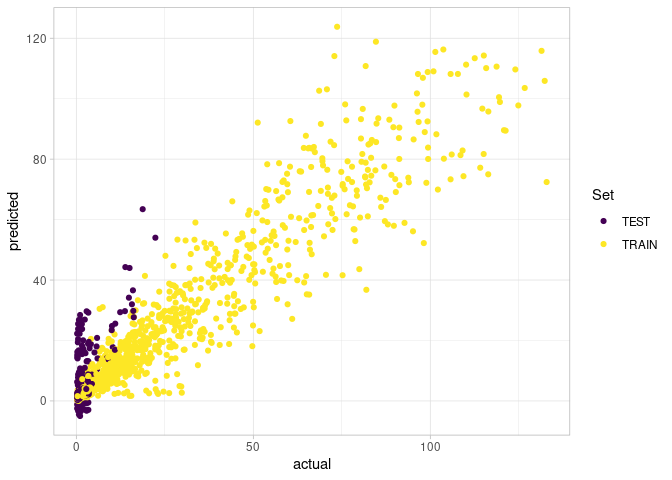
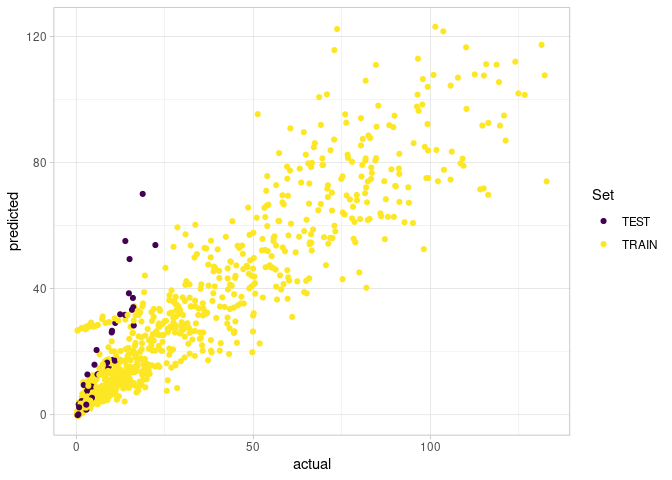
re-knit readme

diff --git a/README.md b/README.md
@@ -139,7 +139,7 @@ bounds_voronoi
 #> →  Surface col.  : area
 #> →  Discretized   : 
 #>    ٭ Points — [40 features, 20 variables]
-#>    ٭ Patches — [35 features, 4 variables]
+#>    ٭ Patches — [38 features, 4 variables]
 ```
 
 The other available method is `triangulate_delaunay` for delaunay
@@ -171,30 +171,30 @@ spm_plot(bounds_delaunay)
 
 ``` r
 spm_patches(bounds_voronoi)
-#> Simple feature collection with 35 features and 3 fields
+#> Simple feature collection with 38 features and 3 fields
 #> Geometry type: GEOMETRY
 #> Dimension:     XY
-#> Bounding box:  xmin: -64.18658 ymin: 46.00004 xmax: -46.6269 ymax: 60.84471
+#> Bounding box:  xmin: -64.5 ymin: 46.00004 xmax: -46.6269 ymax: 61
 #> Geodetic CRS:  WGS 84
-#> # A tibble: 35 x 4
+#> # A tibble: 38 x 4
 #>    sfa   patch_id                                              geometry     area
-#>  * <chr> <fct>                                           <GEOMETRY [°]>   [km^2]
-#>  1 4     P1       POLYGON ((-61.64897 58.21121, -61.35715 58.43733, -6… 17683.6…
-#>  2 4     P2       POLYGON ((-62.41225 60.84022, -61.35715 58.43733, -6… 11712.2…
-#>  3 4     P3       MULTIPOLYGON (((-60.72194 57.76154, -60.76641 57.922…  2367.4…
-#>  4 4     P4       POLYGON ((-60.26783 58.71877, -60.74766 58.86986, -6…  2471.2…
-#>  5 4     P5       POLYGON ((-59.91358 58.83089, -60.06338 58.74244, -6…  6723.9…
-#>  6 4     P6       POLYGON ((-60.11889 57.69684, -60.08143 57.70026, -6…  4924.0…
-#>  7 4     P7       MULTIPOLYGON (((-60.78516 60.03038, -60.06338 58.742…  1693.0…
-#>  8 5     P8       POLYGON ((-59.46605 55.79975, -58.92503 57.15717, -5… 15614.8…
-#>  9 5     P9       POLYGON ((-55.51969 53.75097, -55.79222 54.17142, -5…  6519.4…
-#> 10 5     P10      POLYGON ((-57.06788 54.76817, -56.79468 55.60955, -5… 23662.2…
-#> # … with 25 more rows
+#>  * <chr> <fct>                                            <POLYGON [°]>   [km^2]
+#>  1 4     P1       ((-64.42169 60.27125, -64.42 60.27206, -64.41666 60.… 20367.3…
+#>  2 4     P2       ((-59.95566 58.64882, -60.25261 57.73692, -59.67678 …  1718.5…
+#>  3 4     P3       ((-61.89804 57.6918, -61.34602 58.43681, -61.36857 5…  3882.6…
+#>  4 4     P4       ((-60.50931 57.66667, -60.87958 58.41518, -61.34602 …  4684.4…
+#>  5 4     P5       ((-61.34602 58.43681, -60.87958 58.41518, -60.68359 …  2687.3…
+#>  6 4     P6       ((-63 60.62184, -61.66155 59.11637, -60.6936 58.9027… 14504.2…
+#>  7 4     P7       ((-60.26194 59.52858, -60.73068 59.34113, -60.6936 5…  2449.3…
+#>  8 4     P8       ((-59.91649 58.83888, -60.68359 58.8793, -60.87958 5…  6258.8…
+#>  9 4     P9       ((-61.96379 61, -60.73068 59.34113, -60.26194 59.528…  5308.1…
+#> 10 5     P10      ((-59.55703 55.21506, -59.53354 57.66667, -59.56667 … 27939.6…
+#> # … with 28 more rows
 spm_points(bounds_voronoi)
 #> Simple feature collection with 40 features and 19 fields
 #> Geometry type: POINT
 #> Dimension:     XY
-#> Bounding box:  xmin: -61.75483 ymin: 46.46915 xmax: -48.20016 ymax: 59.2464
+#> Bounding box:  xmin: -61.77175 ymin: 46.16256 xmax: -48.20016 ymax: 59.70288
 #> Geodetic CRS:  WGS 84
 #> # A tibble: 40 x 20
 #> # Groups:   sfa [4]
@@ -202,12 +202,12 @@ spm_points(bounds_voronoi)
 #>  * <dbl>  <dbl> <dbl> <chr>    <chr>           <dbl> <fct>      <dbl>   <dbl>
 #>  1  1995     39    23 2J       Fall           0.0250 1995           5   -51.9
 #>  2  1996     39    37 2G       Fall           0.0250 1996           5   -61.8
-#>  3  2011     39    94 2H       Fall           0.0250 2011           5   -51.8
-#>  4  2011     39    97 2J       Fall           0.0187 2011           5   -51.2
+#>  3  2011     39    95 2J       Fall           0.0250 2011           5   -49.1
+#>  4  2011     39    97 2J       Fall           0.0187 2011           5   -53.7
 #>  5  2011     39    98 3K       Fall           0.0281 2011           5   -61.2
-#>  6  2011     39    98 3K       Fall           0.0312 2011           5   -57.2
+#>  6  2006     48   101 2G       Summer         0.0187 2006           5   -57.1
 #>  7  2009     48   104 2G       Summer         0.0156 2009           5   -61.3
-#>  8  2010     48   105 2G       Summer         0.0405 2010           5   -55.9
+#>  8  2012     39   107 2H       Fall           0.0187 2012           5   -56.3
 #>  9  2012     39   109 3K       Fall           0.0218 2012           5   -50.0
 #> 10  2014     63   109 2G       Summer         0.0281 2014           5   -55.4
 #> # … with 30 more rows, and 11 more variables: lat_dec <dbl>, depth <dbl>,
@@ -236,7 +236,7 @@ biomass_smooth <- biomass_dataset %>%
 biomass_smooth
 #> 
 #> ‒‒ SSPM Dataset: borealis ‒‒
-#> →  Data (MAPPED)     : [969 observations, 21 variables]
+#> →  Data (MAPPED)     : [1025 observations, 21 variables]
 #> →  Data unique ID    : uniqueID
 #> →  Time col.         : year_f
 #> →  Coordinates cols. : lon_dec, lat_dec
@@ -244,7 +244,7 @@ biomass_smooth
 #>       – weight_per_km2 ~ sfa + smooth_time(k = 3) + smooth_space()
 #>       – temp_at_bottom ~ smooth_time(k = 2) + smooth_space()
 #> →  Boundaries        : [4 observations, 3 variables]
-#> →  Smoothed Data     : [840 observations, 8 variables]
+#> →  Smoothed Data     : [912 observations, 8 variables]
 #>    ٭ smoothed vars: temp_at_bottom_smooth — weight_per_km2_smooth
 ```
 
@@ -269,14 +269,14 @@ predator_smooth <- predator_dataset %>%
 predator_smooth
 #> 
 #> ‒‒ SSPM Dataset: all_predators ‒‒
-#> →  Data (MAPPED)     : [1874 observations, 18 variables]
+#> →  Data (MAPPED)     : [1964 observations, 18 variables]
 #> →  Data unique ID    : uniqueID
 #> →  Time col.         : year
 #> →  Coordinates cols. : lon_dec, lat_dec
 #> →  Formulas          : 
 #>       – weight_per_km2 ~ smooth_time(k = 3) + smooth_space()
 #> →  Boundaries        : [4 observations, 3 variables]
-#> →  Smoothed Data     : [840 observations, 7 variables]
+#> →  Smoothed Data     : [912 observations, 7 variables]
 #>    ٭ smoothed vars: weight_per_km2_smooth
 ```
 
@@ -314,7 +314,7 @@ biomass_smooth_w_catch <-
 biomass_smooth_w_catch
 #> 
 #> ‒‒ SSPM Dataset: borealis ‒‒
-#> →  Data (MAPPED)     : [969 observations, 21 variables]
+#> →  Data (MAPPED)     : [1025 observations, 21 variables]
 #> →  Data unique ID    : uniqueID
 #> →  Time col.         : year_f
 #> →  Coordinates cols. : lon_dec, lat_dec
@@ -322,7 +322,7 @@ biomass_smooth_w_catch
 #>       – weight_per_km2 ~ sfa + smooth_time(k = 3) + smooth_space()
 #>       – temp_at_bottom ~ smooth_time(k = 2) + smooth_space()
 #> →  Boundaries        : [4 observations, 3 variables]
-#> →  Smoothed Data     : [840 observations, 12 variables]
+#> →  Smoothed Data     : [912 observations, 12 variables]
 #>    ٭ smoothed vars: temp_at_bottom_smooth — weight_per_km2_smooth
 #>    ٭ vars with catch: weight_per_km2_smooth_borealis_with_catch — weight_per_km2_smooth_borealis_with_catch_change
 ```
@@ -339,7 +339,7 @@ sspm_model <- sspm(biomass = biomass_smooth_w_catch,
 sspm_model
 #> 
 #> ‒‒ SSPM Model (2 datasets) ‒‒
-#> →  Smoothed Data     : [840 observations, 13 variables]
+#> →  Smoothed Data     : [912 observations, 13 variables]
 #>    ٭ smoothed vars: temp_at_bottom_smooth — weight_per_km2_smooth_all_predators — weight_per_km2_smooth_borealis
 #>    ٭ vars with catch: weight_per_km2_smooth_borealis_with_catch — weight_per_km2_smooth_borealis_with_catch_change
 ```
@@ -354,7 +354,7 @@ sspm_model <- sspm_model %>%
 sspm_model
 #> 
 #> ‒‒ SSPM Model (2 datasets) ‒‒
-#> →  Smoothed Data     : [840 observations, 14 variables] / [805 train, 35 test]
+#> →  Smoothed Data     : [912 observations, 14 variables] / [874 train, 38 test]
 #>    ٭ smoothed vars: temp_at_bottom_smooth — weight_per_km2_smooth_all_predators — weight_per_km2_smooth_borealis
 #>    ٭ vars with catch: weight_per_km2_smooth_borealis_with_catch — weight_per_km2_smooth_borealis_with_catch_change
 ```
@@ -371,7 +371,7 @@ sspm_model <- sspm_model %>%
 sspm_model
 #> 
 #> ‒‒ SSPM Model (2 datasets) ‒‒
-#> →  Smoothed Data     : [840 observations, 16 variables] / [805 train, 35 test]
+#> →  Smoothed Data     : [912 observations, 16 variables] / [874 train, 38 test]
 #>    ٭ smoothed vars: temp_at_bottom_smooth — weight_per_km2_smooth_all_predators — weight_per_km2_smooth_borealis
 #>    ٭ vars with catch: weight_per_km2_smooth_borealis_with_catch — weight_per_km2_smooth_borealis_with_catch_change — weight_per_km2_smooth_borealis_with_catch_lag_1
 #>    ٭ lagged vars: weight_per_km2_smooth_all_predators_lag_1 — weight_per_km2_smooth_borealis_with_catch_lag_1
@@ -391,10 +391,10 @@ sspm_model_fit <- sspm_model %>%
 sspm_model_fit
 #> 
 #> ‒‒ SSPM Model Fit ‒‒
-#> →  Smoothed Data     : [840 observations, 16 variables] / [805 train, 35 test]
+#> →  Smoothed Data     : [912 observations, 16 variables] / [874 train, 38 test]
 #> →  Fit summary       : 
 #> 
-#> Family: Scaled t(3,7.473) 
+#> Family: Scaled t(3,7.165) 
 #> Link function: identity 
 #> 
 #> Formula:
@@ -404,26 +404,26 @@ sspm_model_fit
 #> 
 #> Parametric coefficients:
 #>                                                  Estimate Std. Error t value
-#> (Intercept)                                     41.986844  16.836653   2.494
-#> weight_per_km2_smooth_borealis_with_catch_lag_1  0.903955   0.011230  80.498
-#> weight_per_km2_smooth_all_predators_lag_1       -0.009625   0.003500  -2.750
-#> temp_at_bottom_smooth                            2.357069   0.826626   2.851
+#> (Intercept)                                     35.674128  17.807781   2.003
+#> weight_per_km2_smooth_borealis_with_catch_lag_1  0.835819   0.023273  35.914
+#> weight_per_km2_smooth_all_predators_lag_1       -0.007765   0.003714  -2.091
+#> temp_at_bottom_smooth                            0.335478   0.784635   0.428
 #>                                                 Pr(>|t|)    
-#> (Intercept)                                      0.01284 *  
-#> weight_per_km2_smooth_borealis_with_catch_lag_1  < 2e-16 ***
-#> weight_per_km2_smooth_all_predators_lag_1        0.00609 ** 
-#> temp_at_bottom_smooth                            0.00446 ** 
+#> (Intercept)                                       0.0455 *  
+#> weight_per_km2_smooth_borealis_with_catch_lag_1   <2e-16 ***
+#> weight_per_km2_smooth_all_predators_lag_1         0.0369 *  
+#> temp_at_bottom_smooth                             0.6691    
 #> ---
 #> Signif. codes:  0 '***' 0.001 '**' 0.01 '*' 0.05 '.' 0.1 ' ' 1
 #> 
 #> Approximate significance of smooth terms:
-#>                           edf Ref.df     F  p-value    
-#> s(lag_matrix):by_matrix 1.788      5 3.862 1.58e-05 ***
+#>                            edf Ref.df     F  p-value    
+#> s(lag_matrix):by_matrix 0.9484      5 3.605 1.45e-05 ***
 #> ---
 #> Signif. codes:  0 '***' 0.001 '**' 0.01 '*' 0.05 '.' 0.1 ' ' 1
 #> 
-#> R-sq.(adj) =  0.842   Deviance explained = 70.8%
-#> -REML =   1097  Scale est. = 1         n = 805
+#> R-sq.(adj) =  0.858   Deviance explained = 70.9%
+#> -REML = 1191.9  Scale est. = 1         n = 874
 ```
 
 16. Plotting the object produces a actual vs predicted plot (with
